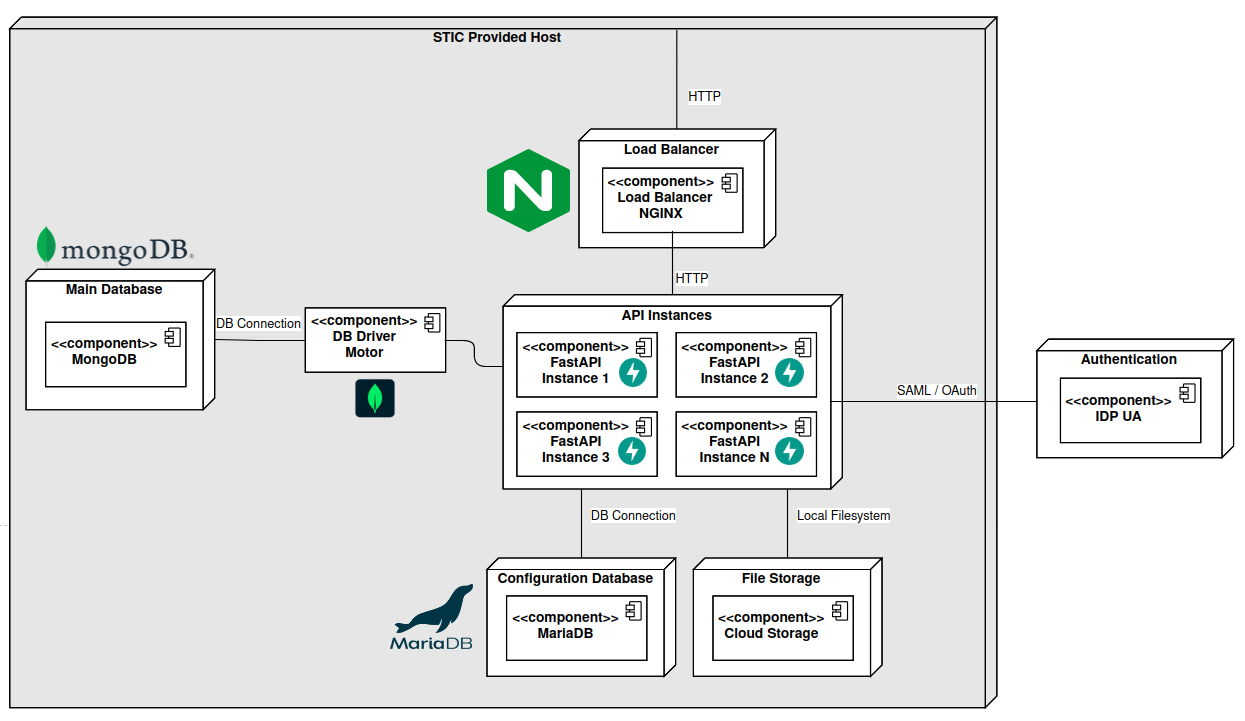
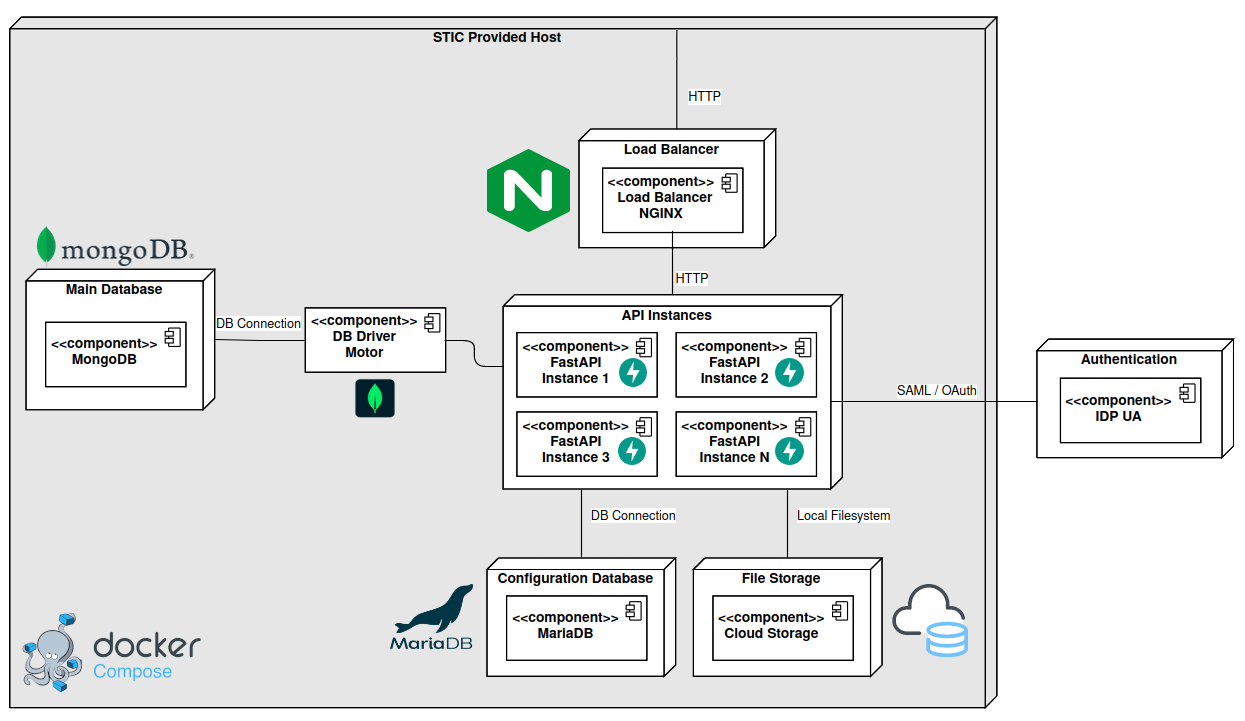
Added even more images and a docker/kubernetes page

Changed region(s): [[0.0, 0.8544, 0.1526, 0.9764], [0.702, 0.8239, 0.7936, 0.9154], [0.7325, 0.7933, 0.7631, 0.8239]]

diff --git a/docs/The Backend Implementation/5-docker_kubernetes.md b/docs/The Backend Implementation/5-docker_kubernetes.md
@@ -1,0 +1,89 @@
+# Docker And Kubernetes
+<br/>
+<p align="center">
+    ![architecture diagram](../../static/img/docker_all.png)
+</p>
+
+<p align="center">
+  The containarization technologies utilized
+</p>
+
+---
+
+<!-- START doctoc generated TOC please keep comment here to allow auto update -->
+<!-- DON'T EDIT THIS SECTION, INSTEAD RE-RUN doctoc TO UPDATE -->
+## Table of Contents
+
+- [Docker And Kubernetes](#docker-and-kubernetes)
+  - [Table of Contents](#table-of-contents)
+  - [Docker Compose](#docker-compose)
+    - [Docker Containers](#docker-containers)
+    - [Docker Networks](#docker-networks)
+    - [Docker Volumes](#docker-volumes)
+  - [Kubernetes](#kubernetes)
+
+<!-- END doctoc generated TOC please keep comment here to allow auto update -->
+
+---
+
+## Docker Compose
+
+<p align="center">
+    ![architecture diagram](../../static/img/docker-compose.png)
+</p>
+
+ Docker Compose was used as the primary container orchestrator.
+
+ Docker Compose allows us to define all the necessary deployment parameters, such as ports, volumes and image versions.
+
+ It also allows us to manage, launch and stop all the containers at once.
+
+---
+
+### Docker Containers
+
+<p align="center">
+    ![architecture diagram](../../static/img/docker.png)
+</p>
+
+ For the docarization of our application, the following containers were defined:
+  - Application (frontend)
+  - Api Instance (multiple can be created at once)
+  - Load Balancer
+  - MongoDB
+  - MariaDB
+
+---
+
+### Docker Networks
+
+ Another advantage of docker compose is the ability to create multiple seperate networks between containers.
+
+ In our application the following networks were created:
+  - frontend_network (App ⇄ Frontend Server)
+  - backend_network (API Instances ⇄ Databases)
+  - request_network (Load Balancer ⇄ API Instances)
+
+---
+
+### Docker Volumes
+
+ Both the MongoDB and the Cloud Service require the usage of volumes mapped to the host's filesystem
+
+ In our application the following volumes were created:
+  - mongodbdata (MongoDB Data)
+  - file-bind (Bind volume that utilizes the host's filesystem, which is then managed by the cloud server)
+
+---
+
+## Kubernetes
+
+<p align="center">
+    ![architecture diagram](../../static/img/kubernetes.png)
+</p>
+
+ A Kubernetes K3s implementation was partially implemented, but would require more work to be put into it in order to be production ready.
+
+ Since the final production environment will only be consitituted of a single server, the kubernete's main feature of load balancing between machines would not be of any use.
+
+ The final production version will include a kubernetes file which will launch the containers and do the apropriate load balancing, but more testing must be done in order to apply the changes to production. 

diff --git a/docs/The Backend Implementation/3-api_Instances.md b/docs/The Backend Implementation/3-api_Instances.md
@@ -1,7 +1,7 @@
 # API Instances
 <br/>
 <p align="center">
-    ![architecture diagram](../../static/img/fastapi.jpg)
+    ![architecture diagram](../../static/img/python_fastapi.png)
 </p>
 
 ---
@@ -43,7 +43,13 @@
 
 ## The FastAPI implementation
 
+<p align="center">
+    ![architecture diagram](../../static/img/fastapi.png)
+</p>
+
  The final API codebase was divided into **multiple subsections**:
+
+---
 
 ### Endpoints
  
@@ -52,6 +58,8 @@
  All the endpoint's documentation can be found on the **Swagger documentation** on the API itself, at [**localhost:8080/docs**](localhost:8080/docs) (the application must be on in order for this page to work).
 
  The endpoints consist of **CRUD** and **other functions** that operate on the **models** and **local files** that have been inserted into the backend.
+
+---
 
 ### Models
 
@@ -65,6 +73,8 @@
 
  Using the [**pydantic**](https://pydantic.dev/) library, all the models automatically apply **data consistency checks**, valid value checks, **default values**, etc for all the parameters and variables stored inside a given model object, allowing for a much **easier and cleaner code** implementation. 
 
+---
+
 ### Repositories
 
  For **interacting with the main database**, a set of repository actions was implemented that allow the **abstraction** of the database components in the rest of the application.
@@ -72,6 +82,8 @@
  These repositories apply the necessary database operations to the main Database given a set of predefined parameters, and respond with the semi-processed outcome of the database.
 
  These are essential to **ensure that the database is not overloaded** with bad requests from other functions, that the database threads are used **efficiently** and that access to the database is **easy to alter**.
+
+---
 
 ### Utils
 
@@ -84,11 +96,15 @@
   - Managing **local files** from the Filesystem;
   - etc.
 
+---
+
 ### Templates
 
  These templates are used by [**Jinja**](https://jinja.palletsprojects.com/en/3.1.x/) and the API to **generate simple HTML code**.
 
  The generated file can then be sent to an **email notification** or used to **list all the data collected** throughout the year (useful for collecting information from the previous year for backups).
+
+---
 
 ### Tests
 
